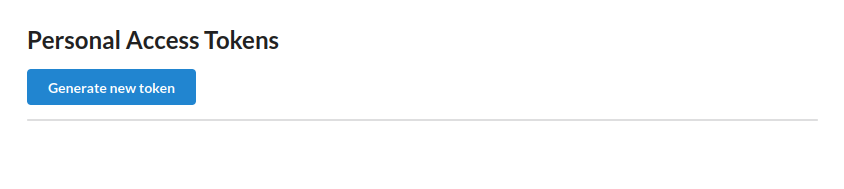
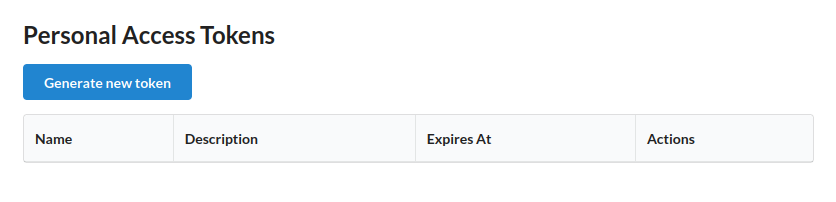
Polish

diff --git a/sample/apiserver/src/main/resources/templates/list-pats.html b/sample/apiserver/src/main/resources/templates/list-pats.html
@@ -20,6 +20,14 @@
 	<h2 class="ui header">Personal Access Tokens</h2>
 	<a class="ui primary button" th:href="@{/user/pats/generate}">Generate new token</a>
 	<table class="ui celled table token-table">
+		<thead>
+			<tr>
+				<th>Name</th>
+				<th>Description</th>
+				<th>Expires At</th>
+				<th>Actions</th>
+			</tr>
+		</thead>
 		<tbody>
 			<form th:action="@{/user/pats}" th:object="${revoke}" method="post">
 				<tr th:if="${tokens.generated != null}">

diff --git a/README.md b/README.md
@@ -455,7 +455,7 @@ You can see tokens you have and delete the ones you don't need anymore:
 For example, to use a generated PAT from the command line:
 
 ```
-http --body GET apiserver:8080/api/whoami/principal 'X-PAT:7c5ab093-8989-4e63-8e85-4cd86f92361d'
+http --body GET apiserver:8080/api/whoami/principal 'X-PAT:1e0fa244-e667-43e6-8ac7-a48ef23a6681'
 
 Principal class: class com.github.jvalkeal.secpat.pat.PatTokenAuthenticationToken
 User: user
